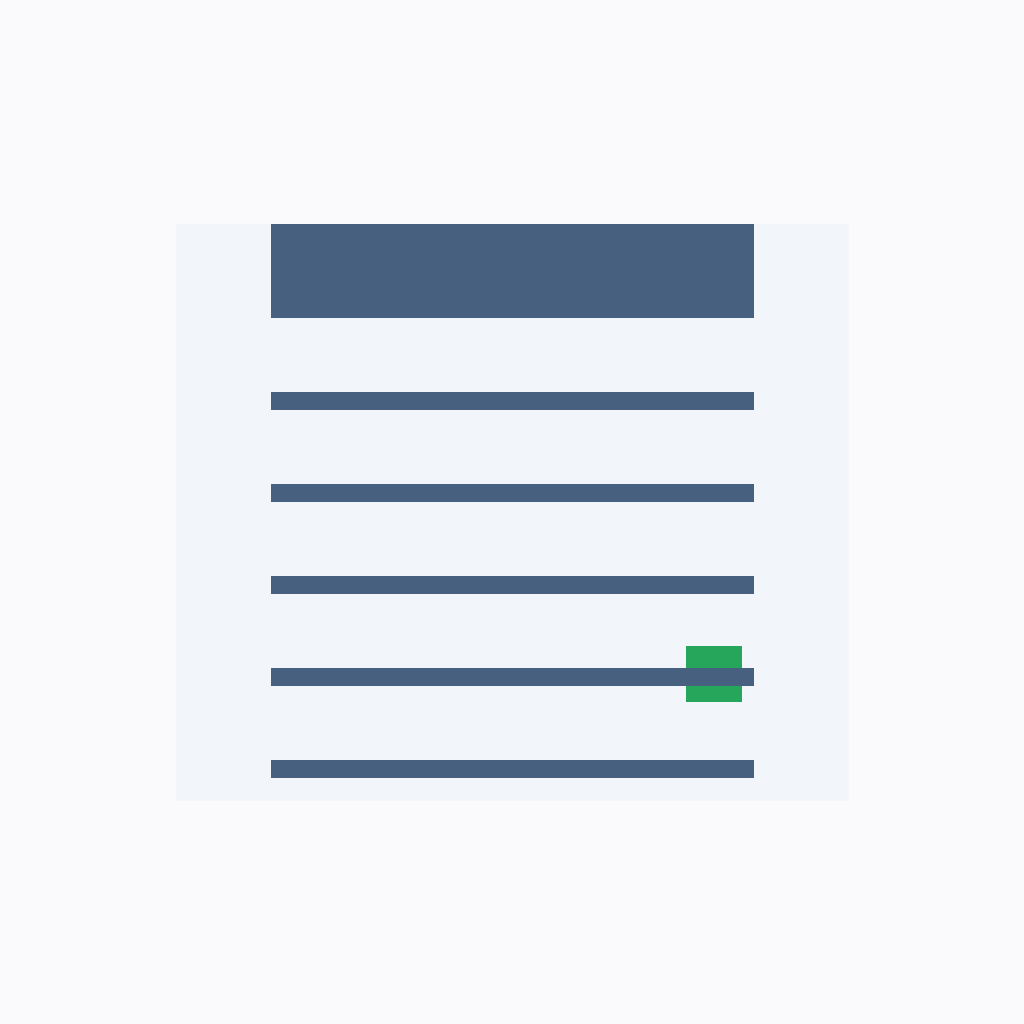
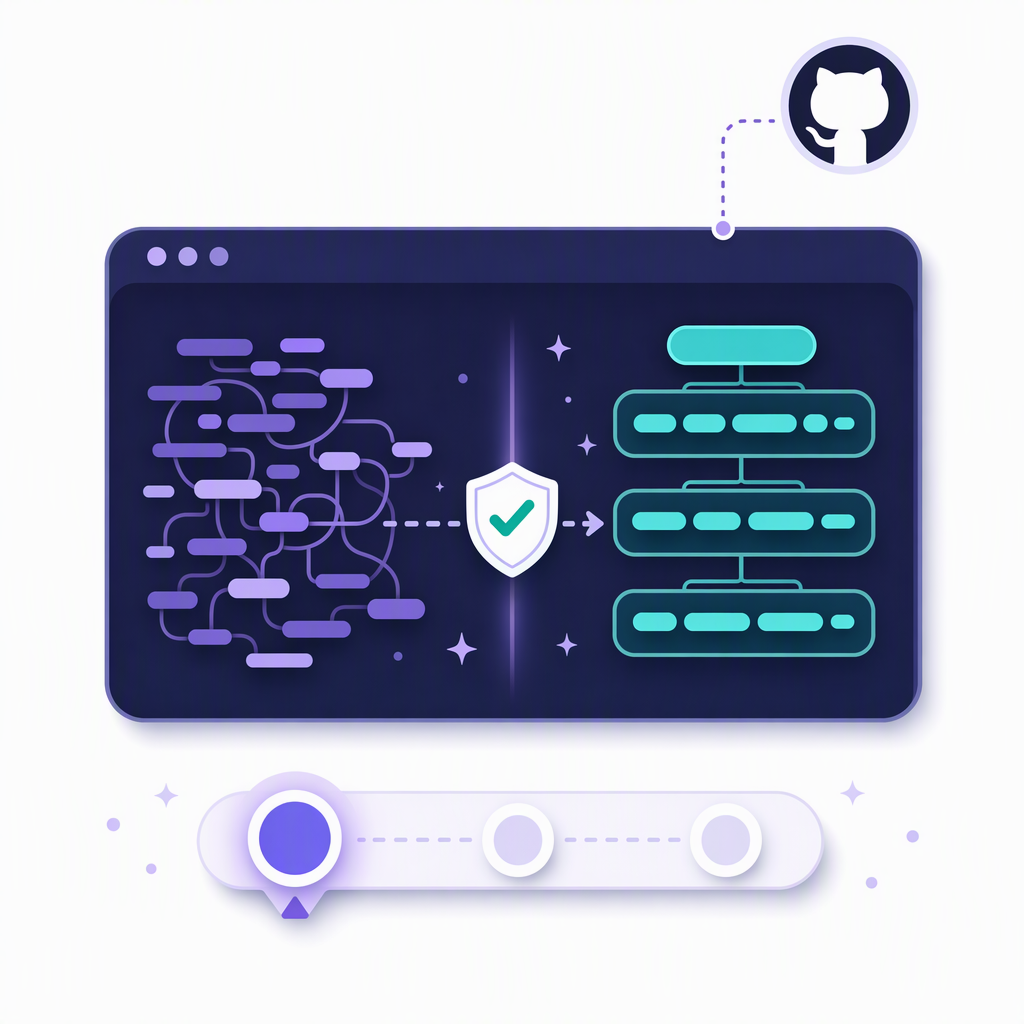
feat(refactor): add approved Azure GPT thumbnail
Replace the deterministic placeholder with the approved single-attempt gpt-image-2 artwork and record exact prompt provenance.

Copilot-Session: 6621e304-7369-4262-b7b4-543a7d5f5a5c

diff --git a/docs/thumbnail-prompts.md b/docs/thumbnail-prompts.md
@@ -126,19 +126,6 @@ blue/green, `repo-ready` = GitHub green, `naming-is-hard` = rose pink + green,
 
 ## Prompts
 
-### refactor (deterministic placeholder)
-
-The current thumbnail is the existing deterministic local placeholder, verified
-byte-for-byte against `encodeDeterministicPlaceholderPng()` in
-`skills/create-skill/scripts/png.mjs`. It is not Azure-generated art.
-
-- Provider: `placeholder`
-- Model/method: `deterministic-local-v1`
-- Size: `1024x1024`
-- Recipe: the repository's deterministic placeholder PNG encoder; no prompt or network call.
[1 lines of base64/hex data omitted]
-- Source: `skills/refactor/thumbnail.png`; catalog copies are generated during builds.
-
 > Provenance note: the verbatim prompt strings for the first three skills were sent to
 > `gpt-image-2` and were not saved at the time (only the PNGs were committed). Azure kept
 > no retrievable logs (no diagnostic settings on the resource) and the originating Copilot
@@ -411,3 +398,14 @@ deployment: gpt-image-2
 endpoint: https://jong-image-westus3.openai.azure.com
 apiVersion: 2025-04-01-preview
 SHA-256: 4e5ffe03d60b42612e4e1dd023bab5ef32089a37142dc9a29dfbf590a0522897
+
+## refactor (6592e89245fe)
+
+Prompt: "Flat vector illustration, pure white background, 1024x1024, centered composition. One large rounded code-editor panel holds a left-to-right transformation: tangled abstract indigo code blocks on the left become three clean organized tiers of teal blocks on the right, joined by a short dashed arrow. A prominent three-position stepped selector beneath the panel conveys choosing refactoring depth, with only the first position highlighted. A small shield with a green check sits at the transformation boundary to convey preserved behavior. A small GitHub Octocat mark at upper right connects to the panel with a dotted tether. Indigo, teal and soft lavender palette, clean modern rounded shapes, soft long shadows, tiny sparkles. Strong simple silhouette legible at 175 pixels. Diagram treatment only: abstract short dashes and rounded pills, no readable text. No words, letters, numerals, fake text, photorealism, 3D, extra panels, deletion symbols or feature removal imagery."
+
+Provider: azure-openai
+model: gpt-image-2
+deployment: gpt-image-2
+endpoint: https://jong-image-westus3.openai.azure.com
+apiVersion: 2025-04-01-preview
+SHA-256: 6592e89245fe8d81386de6b03fd26bd3a6111b36e0a6e8da4c8f32ce01646601

diff --git a/site/public/images/IMAGES.md b/site/public/images/IMAGES.md
@@ -37,6 +37,7 @@ validate all catalog mappings and generate byte-identical public copies.
 | `thumb-test-doctor.png` | `test-doctor` card/detail | Test diagnostic console transforms amber gaps into verified green test cards; generated source and provider provenance live with the skill. |
 | `thumb-pr.png` | `pr` card/detail | Pull request checklist workflow from local commit and preflight checks through review resolution, CI, and merge. |
 | `thumb-go.png` | `go` card/detail | Azure GPT Image 2 workflow dashboard from plan and tests through implementation, review, and merge. |
+| `thumb-refactor.png` | `refactor` card/detail | Azure GPT Image 2 code cleanup diagram with three depth choices and a behavior-preservation shield. |
 
 ## Statusline diagrams
 
